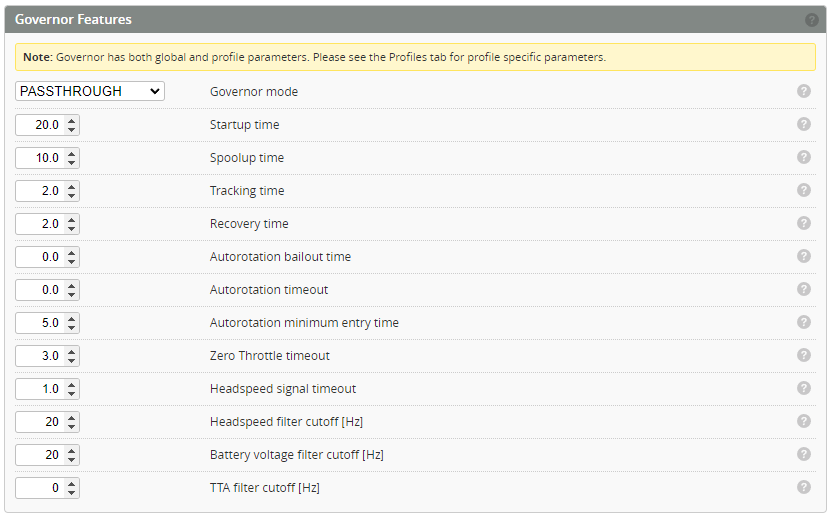
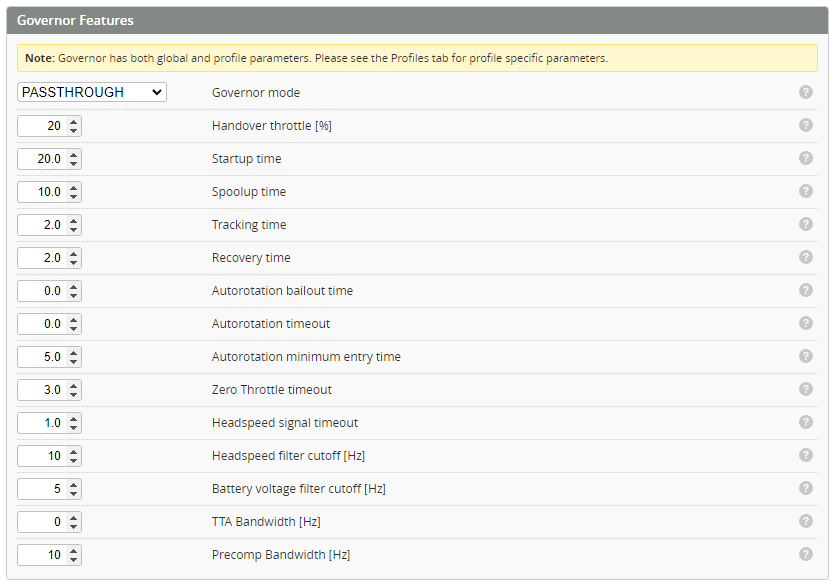
modified:   .vscode/settings.json 	modified:   docs/Tutorial-Setup/Governor.md 	modified:   docs/Tutorial-Setup/Motor-and-Esc.md 	modified:   docs/Tutorial-Setup/img/governor-features.png 	modified:   docs/Tutorial-Setup/img/motor-dshot.png 	modified:   docs/Tutorial-Setup/img/motor-pwm.png 	modifie

Changed region(s): [[0.0, 0.0, 0.9976, 1.0]]

diff --git a/docs/Tutorial-Setup/Governor.md b/docs/Tutorial-Setup/Governor.md
@@ -7,7 +7,7 @@ sidebar_position: 106
 The purpose of the governor is to maintain a constant headspeed regardless of flight inputs, flying conditions, battery voltage, external disturbances, etc. In Rotorflight, the governor also provides other motor related features, like slow spoolup, autorotation control, battery voltage drop compensation, and fault detection and recovery.
 :::
 
-# Governor Feature
+# Governor Features
 The governor can be turned ON/OFF with the dorp down menu within **Governor Features** from the **Motors** Tab.
 
 ![Governor](./img/governor-features-off.png)
@@ -15,7 +15,7 @@ The governor can be turned ON/OFF with the dorp down menu within **Governor Feat
 
 If the feature is disabled, all governor functions are disabled, and the throttle output is taken directly from the receiver throttle channel.
 
-# Governor Modes
+## Governor Mode
 
 The governor has multiple operating modes, each using a slightly different method for the throttle control in the PID loop. Select a mode from one of the values below.
 
@@ -41,11 +41,15 @@ Like STANDARD, but with collective/cyclic precompensation. This is similar to go
 
 Like MODE1, but with battery voltage compensation. The PID loop does not need to react to battery voltage fluctuations, as it is taken into account outside the PID loop. This is usually the best choice. Can be used only if the battery voltage is connected to the FC.
 
-# Governor Basic Settings
+## Governor Basic Settings
 
 ![Governor](./img/governor-features.png)
 
 In order to use the governor you must first configure the ESC/Motor features. This defines the motor telemetry (for RPM feedback) and gear ratios for your helicopter which lets the flight controller know how fast the rotor is spinning.
+
+### Handover throttle
+
+The throttle level above which the governor is activated. Below this level the input throttle is passed to the ESC, above this level the governor is enabled and the input throttle is used for calculating the target headspeed. The motor must be able to start below this throttle level.
 
 ### Startup time
 
@@ -99,11 +103,15 @@ The inputs to the governor must be clean from excess noise. The RPM input is fil
 
 The inputs to the governor must be clean from excess noise. The Battery voltage input is filtered with a BIQUAD filter, with the frequency cutoffs set by these variables.
 
-### TTA Filter Cutoff [Hz]
+### TTA Bandwidth [Hz]
 
-Filter to smooth the Yaw signal before it is used for the TTA function (Torque Tail Assist)
+Cutoff for the TTA (Torque Tail Assist) lowpass filter.
 
-# Governor Profiles Settings
+### Precomp Bandwidth [Hz]
+
+Cutoff for the cyclic/collective precompensation lowpass filter.
+
+## Governor Profiles Settings
 
 These settings are set from the Profiles Tab. If desired, individual Profiles can be configured via the Adjustments Tab. This enables individual flight modes to have separate tuning and configuration set for each flight mode. (similar to 'Bank Switching').
 
@@ -149,7 +157,7 @@ Cyclic precompensation weight. Increasing the cyclic increases load on the rotor
 
 Collective precompensation weight. Increasing the collective increases load on the rotor and causes it to slow down. This setting determines how much collective is mixed into the governor feedfoward. This helps the governor maintain the headspeed proactively (i.e. increase power to the motor so it does not slow down). Usually 20..100
 
-# Governor throttle input ranges
+## Governor throttle input ranges
 
 With the governor feature activated, the transmitter throttle channel is controlling the governor, rather than the ESC directly.
 
@@ -189,7 +197,7 @@ If you want to perform autorotation with the main motor running, use this range!
 
 In this range, the governor is in active state, and the requested rpm is 20%..100% of the gov_headspeed.
 
-# Governor State
+## Governor State
 
 The governor internal state can be observed in the blackbox log. It is a good indication on what the governor is trying to do.
 

diff --git a/docs/Tutorial-Setup/Motor-and-Esc.md b/docs/Tutorial-Setup/Motor-and-Esc.md
@@ -10,11 +10,17 @@ The *Motors* tab is used to configure the ESC communications protocols **( Motor
 This section is about Rotorflight communicating with the ESC. The settings for your motor (such as timing, braking and motor update frequency) can only be set in your ESC, and not in Rotorflight.
 :::
 
+## ESC/Motor Features
+
 ![Motor and ESC](./img/motor-main.png)
+
+### ESC Throttle Protocol
 
 Set the ESC protocol required for your ESC under *ESC/Motor protocol*. Usually this would be *PWM* or *DSHOT300*.
 
 ![Motor and ESC](./img/motor-protocol.png)
+
+### ESC Telemetry Protocol
 
 Set the ESC [*Telemetry*](ESC-Telemetry.md) protocol if your esc supports it.
 
@@ -33,6 +39,8 @@ Most RC helicopter ESCs manufacturers (e.g. Hobbywing, YGE, Scorpion ,or Castle)
 
 ![Motor and ESC](./img/motor-pwm.png)
 
+**RPM Sensor:** Activate the RPM Sensor input for motor RPM, you can connect an RPM signal from the ESC, or from an external RPM sensor device.
+
 **ESC Update Frequency:** the PWM update frequency for your ESC. Usually between 50-400Hz.
 
 **Disarm Throttle PWM value:** the value that is sent to the ESC when the craft is disarmed. It should stop the motors. Usually 1000µs.
@@ -50,7 +58,7 @@ If you use DSHOT, use either DSHOT150 or DSHOT300. DSHOT600 is not recommended. 
 - BLHeli_32: set *Non Damped Mode* to *On* on the main motor ESC
 - Bluejay: set *Maximum Breaking Strength* to *0*
 
-#### Bidirectional DSHOT
+#### DShot RPM Telemetry 
 This switch is only visible when the *ESC/Motor protocol* is DSHOTxxx. It enables motor eRPM telemetry on supported ESCs via [bidirectional DSHOT](Rpm-Measurement.md#bidirectional-dshot) and can be used to facilitate the *GOVERNOR* and/or *RPM_FILTER* features. If you use bidirectional DSHOT you don't have to use a frequency sensor for obtaining the eRPM of the motor(s).
 
 ### Gear Ratio Configuration
@@ -81,6 +89,8 @@ Determine the number of magnetic poles for each motor. Count the number of magne
 ![Motor and ESC](./img/motor-pole-count-1.png)
 
 ![Motor and ESC](./img/motor-pole-count-2.png)
+
+## [Governor Features](./Governor.md/#governor-modes)
 
 ## Motor Override
 Motor Override functionality is provided to test the operation of each motor directly. This functionality will make the motors spool up. Do this WITHOUT the main or tail rotors fitted!
